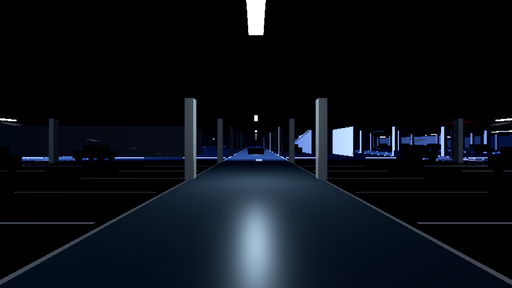
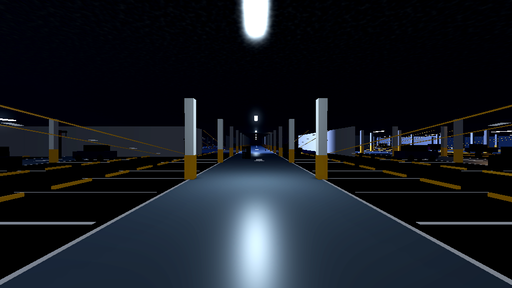
The car park: one ramp, the roof on the map, and more light
The only ramp left is the one you can climb
- The model's "north_block" was never a plant room: it is the model's own ramp to a next storey,
  a slope that runs up into the slab between two walls. The map placed five of them as solid
  blocks nobody could walk. They are gone - piece, collision, map drawing and the locker spots
  against them - and the ramp to the roof is the only way up. The floor is more open for it, and
  the car park draws in 59 calls instead of 64.

The roof is on the map
- The ramp is a cyan strip with chevrons pointing up the slope, with «السطح ↑» beside it on the
  big map. The roof gate, the roof generator and the roof hook each carry a cyan ▲, and the legend
  has «▲ فوق السطح». Standing on the roof, the minimap rings your arrow and says «على السطح».

A little more light down there
- Ambient 0.75 -> 1.12, strip lights 2.3 -> 3.3 with a 23 m reach, one module in ten dark instead
  of one in six, fog 0.02 -> 0.016 so the far strip lights still read, and the roof lamps up a
  touch. Still dark enough to hide in, but you can see the columns down the aisle now. The map
  picker's preview of the car park was re-rendered with it.

Tested headless: tools/garage.tscn (no unclimbable ramps left, the real ramp walked to 4.7 m,
three roof badges on the map, the roof message when you stand up there, lights, both gates),
plus smoke, ui, event, look and server/test.js. Screenshots from the new tools/shot13.tscn.
[…]

diff --git a/CLAUDE.md b/CLAUDE.md
@@ -139,13 +139,16 @@ Every map keeps the same skeleton: perimeter wall, two gates with a long escape 
   model instead of code (`assets/maps/carpark.glb`, CC0). `_plan_garage` repeats the 30 x 20 m
   module in a 5 x 7 grid, scaled 1.4 (so the floor is 210 x 196 m with a 4.2 m slab overhead),
   and decides per module which pieces it gets: the stair core on the west edge and a few inside,
-  a cross wall every third module, a plant room here and there — that is what makes the bays
-  join into one floor you can run around instead of 35 sealed boxes. `_build_garage` draws each
+  and a cross wall every third module — that is what makes the bays join into one floor you can
+  run around instead of 35 sealed boxes. **The model's `north_block` piece is never placed**: it is
+  the model's own ramp to a next storey that does not exist (a slope running up into the slab,
+  walled in, solid), and players could never climb it. The only ramp in the map is the real one
+  to the roof. `_build_garage` draws each
   piece as one MultiMesh per row of modules (≈60 draw calls, and a row is small enough that the
   mobile renderer's 8 lights per object still land where they should), `_build_garage_shell`
   adds the box collision, the slab and the outside wall with its two openings toward the gates,
-  `_build_garage_lights` hangs a fluorescent strip over every module (one in six is dead, all of
-  them die in the blackout) and `_build_garage_props` parks ~87 cars as three coloured MultiMeshes
+  `_build_garage_lights` hangs a fluorescent strip over every module (one in ten is dead, all of
+  them die in the blackout; ambient 1.12, strips at 3.3 with a 23 m reach, fog 0.016) and `_build_garage_props` parks ~87 cars as three coloured MultiMeshes
   with one box collider each, plus the concrete crash barriers that are the only vault spots down
   there. No trees, grass, market, scatter or doors on this map; footsteps are always `indoor`, and
   the minimap draws the cores and cross walls instead of the market.
@@ -156,6 +159,10 @@ Every map keeps the same skeleton: perimeter wall, two gates with a long escape 
   in the open, with one hook beside it. A gate whose `y` is above the ground now gets a taller
   frame and a wall under its opening (`_build_objectives`), and `main._near` requires the two
   points to be within 3 m vertically, so you cannot work the roof generator from the floor below.
+  **On the map** (`main._draw_roof_ramp` / `_roof_badge`): the ramp is a cyan strip with chevrons
+  pointing up the slope and «السطح ↑» beside it on the big map; the roof gate, the roof generator
+  and the roof hook each carry a cyan ▲; the legend has «▲ فوق السطح»; and while you stand on the
+  roof the minimap rings your arrow and says «على السطح».
 - `beach` «الشاطئ» — a lagoon beach: sand (`relief 1.1`), eight beach huts, the market set back
   from the water, and the sea along the **north** side. `_raw_h` drops the ground by up to 3.4 m
   north of `BEACH_SHORE` (42 m), the lagoon surface sits at `BEACH_WATER` (-0.55) as one
